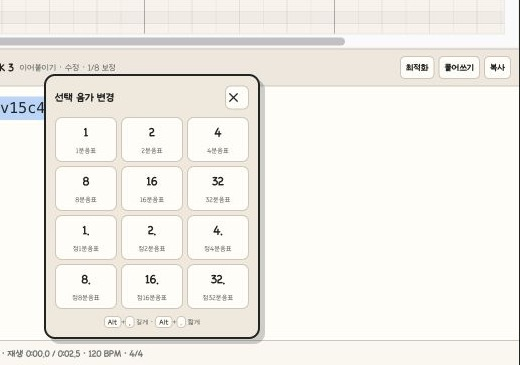
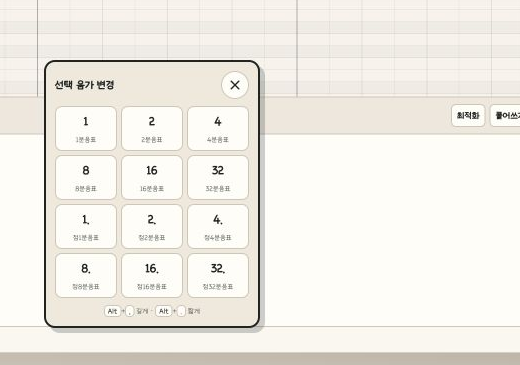
Refresh help images and unify panel close controls

Changed region(s): [[0.0, 0.0, 1.0, 1.0]]

diff --git a/app/components/mml-studio.tsx b/app/components/mml-studio.tsx
@@ -2347,7 +2347,7 @@ export default function MmlStudio({
 
       {fileMenuView && (
         <div className="mml-action-menu" role="dialog" aria-label="MML 파일 메뉴">
-          <div className="mml-action-menu-head"><strong>파일</strong><button type="button" onClick={() => setFileMenuView(false)}>닫기</button></div>
+          <div className="mml-action-menu-head"><strong>파일</strong><button type="button" className="mml-panel-close" onClick={() => setFileMenuView(false)} aria-label="파일 메뉴 닫기"><X aria-hidden="true" /></button></div>
           <button type="button" onClick={resetProject}><b><Plus aria-hidden="true" /></b><span><strong>새 프로젝트</strong><small>현재 작업을 비우고 새로 시작</small></span></button>
           <button type="button" onClick={() => fileInputRef.current?.click()}><b><Upload aria-hidden="true" /></b><span><strong>불러오기</strong><small>MML·3MLE·마비꼬 MMI·냥 프로젝트·MIDI</small></span></button>
           <button type="button" onClick={() => { exportMidi(); setFileMenuView(false); }}><b><FileMusic aria-hidden="true" /></b><span><strong>MIDI 내보내기</strong><small>표준 MIDI 파일로 저장</small></span></button>
@@ -2371,7 +2371,7 @@ export default function MmlStudio({
 
       {settingsView && (
         <div className="mml-quick-settings" role="dialog" aria-label="MML 세부 설정">
-          <div className="mml-quick-settings-head"><span><strong>녹음 설정</strong><small>입력 방식과 박자 보정</small></span><button type="button" onClick={() => setSettingsView(false)}>닫기</button></div>
+          <div className="mml-quick-settings-head"><span><strong>녹음 설정</strong><small>입력 방식과 박자 보정</small></span><button type="button" className="mml-panel-close" onClick={() => setSettingsView(false)} aria-label="녹음 설정 닫기"><X aria-hidden="true" /></button></div>
           <label>녹음 방식<select value={project.recording.mode} onChange={(event) => commit((draft: any) => { draft.recording.mode = event.target.value; return draft; })}><option value="realtime">실시간</option><option value="append">이어붙이기</option></select></label>
           <label>녹음 시작 위치<select value={project.recording.startPosition} onChange={(event) => commit((draft: any) => { draft.recording.startPosition = event.target.value; return draft; })}><option value="playhead">현재 재생 위치</option><option value="beginning">처음부터</option><option value="empty">연결 트랙의 빈 끝부분</option></select></label>
           <label>편집 방식<select value={project.recording.editMode} onChange={(event) => commit((draft: any) => { draft.recording.editMode = event.target.value; return draft; })}><option value="overwrite">수정</option><option value="insert">삽입</option></select></label>
@@ -2403,7 +2403,7 @@ export default function MmlStudio({
           aria-label={`${selectedTrack.name} 설정`}
           style={trackSettingsAnchor ? { left: trackSettingsAnchor.x, top: trackSettingsAnchor.y, right: "auto", transform: "none" } : undefined}
         >
-          <div className="mml-quick-settings-head"><span><strong>트랙 설정</strong><small>선택한 트랙의 녹음·재생 속성</small></span><button type="button" onClick={() => { setTrackSettingsView(false); setTrackSettingsAnchor(null); }}>닫기</button></div>
+          <div className="mml-quick-settings-head"><span><strong>트랙 설정</strong><small>선택한 트랙의 녹음·재생 속성</small></span><button type="button" className="mml-panel-close" onClick={() => { setTrackSettingsView(false); setTrackSettingsAnchor(null); }} aria-label="트랙 설정 닫기"><X aria-hidden="true" /></button></div>
           <label className="mml-track-name-field">이름<input value={selectedTrack.name} onChange={(event) => updateTrack(selectedTrack.id, { name: event.target.value })} /></label>
           <label>색상<input type="color" value={selectedTrack.color} onChange={(event) => updateTrack(selectedTrack.id, { color: event.target.value })} /></label>
           <label>음색<select value={selectedTrack.themeId} onChange={(event) => changeTrackThemes([selectedTrack.id], event.target.value)}>{themes.map((theme) => <option value={theme.id} key={theme.id}>{theme.name}</option>)}</select></label>
@@ -2417,7 +2417,7 @@ export default function MmlStudio({
 
       {durationMenu && (
         <div className="mml-duration-menu" role="menu" aria-label="선택한 음표 길이 변경" style={{ left: durationMenu.x, top: durationMenu.y }} onContextMenu={(event) => event.preventDefault()}>
-          <header><strong>선택 음가 변경</strong><button type="button" onClick={() => setDurationMenu(null)} aria-label="닫기"><X aria-hidden="true" /></button></header>
+          <header><strong>선택 음가 변경</strong><button type="button" className="mml-panel-close" onClick={() => setDurationMenu(null)} aria-label="선택 음가 변경 닫기"><X aria-hidden="true" /></button></header>
           <div className="mml-duration-grid">
             {[0, 1].flatMap((dots) => MML_NOTE_LENGTHS.map((length) => (
               <button type="button" role="menuitem" onClick={() => setSelectionDuration(length, dots)} key={`${length}-${dots}`}>
@@ -2529,7 +2529,7 @@ export default function MmlStudio({
             >
               <header>
                 <span><strong>박자·템포 변경</strong><small>{timelinePositionLabel(timelineEditor.tick)} · {Math.round(timelineEditor.tick)} tick · {timelineTempoTrack?.name ?? selectedTrack.name}</small></span>
-                <button type="button" onClick={() => setTimelineEditor(null)} aria-label="닫기"><X aria-hidden="true" /></button>
+                <button type="button" className="mml-panel-close" onClick={() => setTimelineEditor(null)} aria-label="박자·템포 변경 닫기"><X aria-hidden="true" /></button>
               </header>
               <section>
                 <label>템포<input aria-label="변경 템포" type="number" min="1" value={timelineEditor.bpm} onChange={(event) => setTimelineEditor({ ...timelineEditor, bpm: Math.max(1, Number(event.target.value) || 1) })} /></label>

diff --git a/app/help/page.tsx b/app/help/page.tsx
@@ -138,7 +138,7 @@ export default function HelpPage() {
             <div><small>PLAY</small><h2>건반 연주 화면</h2></div>
           </div>
           <ScreenFigure
-            src="/help/main-screen.png"
+            src="/help/main-screen.png?v=20260807-2"
             alt="냥냥 메인 건반 연주 화면"
             width={1440}
             height={900}
@@ -162,7 +162,7 @@ export default function HelpPage() {
             <div><small>COMPOSE</small><h2>MML 작곡 화면</h2></div>
           </div>
           <ScreenFigure
-            src="/help/mml-screen.png"
+            src="/help/mml-screen.png?v=20260807-2"
             alt="냥냥 MML 작곡과 피아노롤 화면"
             width={1440}
             height={900}
@@ -182,8 +182,8 @@ export default function HelpPage() {
           </div>
           <div className="help-dialog-grid">
             <article>
-              <a href="/help/duration-menu-screen.png" target="_blank" rel="noreferrer" aria-label="선택 음가 변경 메뉴 크게 보기">
-                <Image src="/help/duration-menu-screen.png" alt="MML 텍스트를 선택한 뒤 연 음가 변경 메뉴" width={520} height={365} sizes="(max-width: 760px) 100vw, 540px" />
+              <a href="/help/duration-menu-screen.png?v=20260807-2" target="_blank" rel="noreferrer" aria-label="선택 음가 변경 메뉴 크게 보기">
+                <Image src="/help/duration-menu-screen.png?v=20260807-2" alt="MML 텍스트를 선택한 뒤 연 음가 변경 메뉴" width={520} height={365} sizes="(max-width: 760px) 100vw, 540px" />
               </a>
               <div>
                 <span>텍스트 우클릭</span>
@@ -192,8 +192,8 @@ export default function HelpPage() {
               </div>
             </article>
             <article>
-              <a href="/help/tempo-dialog-screen.png" target="_blank" rel="noreferrer" aria-label="박자와 템포 변경창 크게 보기">
-                <Image src="/help/tempo-dialog-screen.png" alt="피아노롤의 박자와 템포 변경창" width={520} height={370} sizes="(max-width: 760px) 100vw, 540px" />
+              <a href="/help/tempo-dialog-screen.png?v=20260807-2" target="_blank" rel="noreferrer" aria-label="박자와 템포 변경창 크게 보기">
+                <Image src="/help/tempo-dialog-screen.png?v=20260807-2" alt="피아노롤의 박자와 템포 변경창" width={520} height={370} sizes="(max-width: 760px) 100vw, 540px" />
               </a>
               <div>
                 <span>피아노롤 우클릭</span>
@@ -228,8 +228,8 @@ export default function HelpPage() {
             <div><small>RECORD</small><h2>두 가지 녹음 방식</h2></div>
           </div>
           <article className="help-recording-settings-guide">
-            <a href="/help/recording-settings-screen.png" target="_blank" rel="noreferrer" aria-label="녹음 설정 화면 크게 보기">
-              <Image src="/help/recording-settings-screen.png" alt="MML 화면 위쪽의 녹음 설정 버튼과 열린 설정창" width={750} height={340} sizes="(max-width: 760px) 100vw, 620px" />
+            <a href="/help/recording-settings-screen.png?v=20260807-2" target="_blank" rel="noreferrer" aria-label="녹음 설정 화면 크게 보기">
+              <Image src="/help/recording-settings-screen.png?v=20260807-2" alt="MML 화면 위쪽의 녹음 설정 버튼과 열린 설정창" width={750} height={340} sizes="(max-width: 760px) 100vw, 620px" />
             </a>
             <div>
               <span>MML 화면 위쪽 녹음 설정</span>
@@ -250,8 +250,8 @@ export default function HelpPage() {
             </article>
           </div>
           <article className="help-rest-guide">
-            <a href="/help/rest-button-screen.png" target="_blank" rel="noreferrer" aria-label="쉼표 건반 크게 보기">
-              <Image src="/help/rest-button-screen.png" alt="검은 건반 자리에 놓인 쉼표 건반" width={545} height={295} sizes="(max-width: 760px) 100vw, 520px" />
+            <a href="/help/rest-button-screen.png?v=20260807-2" target="_blank" rel="noreferrer" aria-label="쉼표 건반 크게 보기">
+              <Image src="/help/rest-button-screen.png?v=20260807-2" alt="검은 건반 자리에 놓인 쉼표 건반" width={545} height={295} sizes="(max-width: 760px) 100vw, 520px" />
             </a>
             <div>
               <span>이어붙이기 녹음</span>
@@ -279,8 +279,8 @@ export default function HelpPage() {
             <div><small>SETTINGS</small><h2>연주 설정</h2></div>
           </div>
           <div className="help-settings-layout">
-            <a className="help-settings-image" href="/help/settings-screen.png" target="_blank" rel="noreferrer" aria-label="연주 설정 화면 크게 보기">
-              <Image src="/help/settings-screen.png" alt="냥냥 연주 설정 화면" width={1114} height={1662} sizes="(max-width: 760px) 88vw, 430px" />
+            <a className="help-settings-image" href="/help/settings-screen.png?v=20260807-2" target="_blank" rel="noreferrer" aria-label="연주 설정 화면 크게 보기">
+              <Image src="/help/settings-screen.png?v=20260807-2" alt="냥냥 연주 설정 화면" width={560} height={720} sizes="(max-width: 760px) 88vw, 430px" />
               <span>눌러서 크게 보기</span>
             </a>
             <div className="help-settings-list">

diff --git a/app/globals.css b/app/globals.css
@@ -1881,6 +1881,31 @@ button {
   font-weight: 900;
 }
 
+.mml-quick-settings-head .mml-panel-close,
+.mml-action-menu-head .mml-panel-close,
+.mml-duration-menu header .mml-panel-close,
+.mml-timeline-editor header > .mml-panel-close {
+  display: grid;
+  flex: 0 0 28px;
+  width: 28px;
+  height: 28px;
+  min-width: 28px;
+  place-items: center;
+  padding: 0;
+  border: 1px solid var(--line);
+  border-radius: 50%;
+  background: #fffdf7;
+  color: var(--ink);
+  cursor: pointer;
+}
+
+.mml-panel-close svg {
+  display: block;
+  width: 15px;
+  height: 15px;
+  stroke-width: 2.2;
+}
+
 .mml-action-menu > button {
   display: grid;
   grid-template-columns: 29px minmax(0, 1fr);
